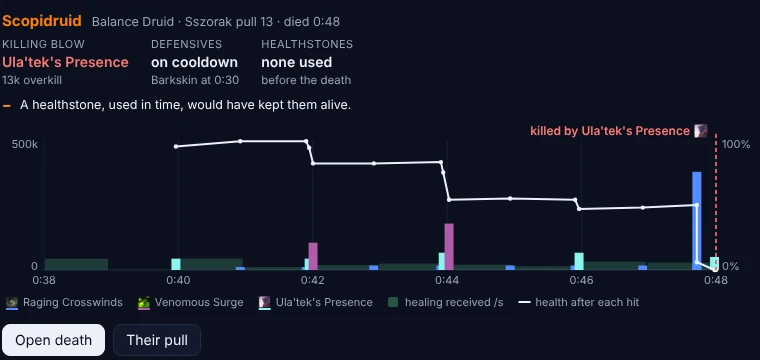
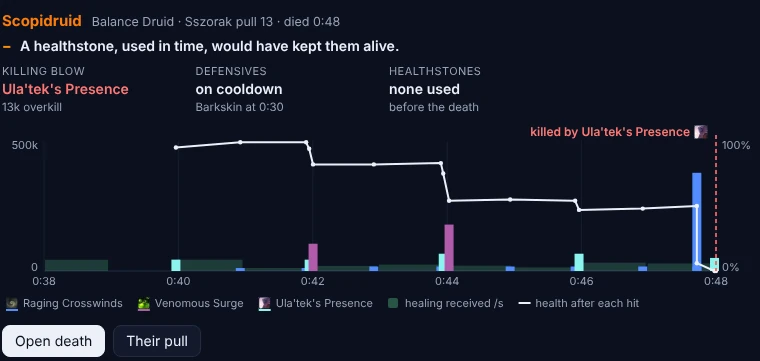
docs: the unreleased pictures show the cards as they are drawn now
Six pictures under Unreleased were taken before the cards led with a headline:
the night with its lists, the death with its line under the numbers, the player
with its scale on the card, the placeholder without the sentence's line. Taken
again from the same recorded pulls, with their descriptions put in step.

diff --git a/CHANGELOG.md b/CHANGELOG.md
@@ -21,7 +21,7 @@ The format is based on [Keep a Changelog](https://keepachangelog.com/en/1.1.0/).
 - `Discord` **Follow-up buttons only where they add something.** A follow-up you were already offered in the conversation isn't offered again, and an answer that read nothing (a greeting, a reply to a remark) has no buttons under it.
 - `Agent` **One set of colours in every chart, made to be told apart.** How a night's pulls ended, the abilities in a death and the kinds of callout in a note now share four colours that stay apart for red-green colour-blind readers, in the light theme and the dark; whatever is past four is "other", drawn hollow. Gold, the orange of "decided", red and green were tuned again to read as text on a card and to stay apart too, text that says a state takes the host's own colour for it where Claude or ChatGPT gives one, and a kick that went through or a cooldown not cast in a note's grid is a red square with a cross in it. A night's picture in Discord has its own legend.
 
-  ![Sszorak over 33 pulls in the light theme: each bar in one of four colours for what ended the pull, the endings past four drawn hollow, and the same colours in the list of how the pulls ended](https://raw.githubusercontent.com/Enf0/wipebot/main/docs/images/chart-colours-light.webp)
+  ![Sszorak over 33 pulls in the light theme: each bar in one of four colours for what ended the pull, the endings past four drawn hollow, and the same colours in the key under the bars](https://raw.githubusercontent.com/Enf0/wipebot/main/docs/images/chart-colours-light.webp)
 - `Agent` **Every card leads with its verdict.** A card used to open on a row of numbers and leave the reading to you. It now opens with one sentence: how the pull ended ("The boss gained Unbound Ferocity at 2:32 and kept it to the end, with 16 of 20 alive."), what would have kept someone alive, the weightiest thing for a player to fix, what ended the most pulls of a night. Wipebot's code writes the sentence from the same facts as the answer, so the two can't disagree. Under it every card is the same: at most four numbers, one chart and two buttons, in Claude and ChatGPT and, without the buttons, in Discord's pictures. While it loads, a card waits in that one shape.
 
   ![Sszorak pull 13's card: under the title one sentence, "The boss gained Unbound Ferocity at 2:32 and kept it to the end, with 16 of 20 alive.", then the boss's health left, the deaths before 2:32 and the first death, the pull's chart, and the buttons Open pull and Replay](https://raw.githubusercontent.com/Enf0/wipebot/main/docs/images/card-verdict-pull.webp)
@@ -54,10 +54,10 @@ The format is based on [Keep a Changelog](https://keepachangelog.com/en/1.1.0/).
 - `Agent` **A hit that kills many counts whole.** When one ability killed players over a second or two, the count stopped at the moment half the raid was dead: "Viscous Cyst killed 5" on a pull where it killed 10, with the other five listed as fallout. The wipe is now decided at the hit's last death, in every tool, two abilities killing at the same moment are both named, and a few deaths in pulses just before another ability's hit count as what led into it.
 - `Agent` **Class colours read on a light card.** A player's name, their line and their dot were drawn in the game's class colours, which were made for a dark screen: on a light card a priest's white, a rogue's yellow and a monk's green all but vanished, and a death knight's red was dim on a dark one. A name now keeps its class's colour at a lightness that reads on the card, in every view, and a bar keeps the true colour with an edge around it. Chart labels are also drawn at the sizes they were meant to have, not all at one. And what was faded to say it counts less is no longer faded past reading: in a pull's list of deaths, those after the wipe was decided are grey and plain, and a pull's chip on a player's night and the number written in a death's mark are in full ink.
 
-  ![A rogue's pull in the light theme: the name Draiman and the dot on the scale in a dark olive instead of the class's pale yellow](https://raw.githubusercontent.com/Enf0/wipebot/main/docs/images/class-colours-light.webp)
+  ![A rogue's pull opened in the light theme: the name Draiman and the dot on the scale in a dark olive instead of the class's pale yellow](https://raw.githubusercontent.com/Enf0/wipebot/main/docs/images/class-colours-light.webp)
 - `Agent` **The words on the cards are put right.** A parse reads "81st percentile", not "81th". A death the log names no killing blow for is labelled "no killing blow recorded", not "killed by no killing blow recorded", and on a player's night it reads "died 0:27 (#6), no killing blow recorded", no longer "died 0:27 (#6) to no killing blow recorded". A boss killed on the first pull has "1 pull", and no heading or key for what isn't there. "Could have lived" says "Astral Shift on 1 death", and the rank under "per second alive" says it is by total. On a death, what would have kept the player alive is marked as something to do differently, as it is on their night, and no longer with the plus of what went well.
 
-  ![Scopidruid's death on Sszorak pull 13: under the numbers, a minus and "A healthstone, used in time, would have kept them alive", then the hits and their health in the 10 s before the death](https://raw.githubusercontent.com/Enf0/wipebot/main/docs/images/death-missed-save.webp)
+  ![Scopidruid's death on Sszorak pull 13: the card leads with a minus and "A healthstone, used in time, would have kept them alive.", then its numbers and the hits and their health in the 10 s before the death](https://raw.githubusercontent.com/Enf0/wipebot/main/docs/images/death-missed-save.webp)
 - `Agent` **The pull's chart names both of its scales, and its labels keep apart.** The boss's health now runs from 100% to 0 on every pull, so the lines of two pulls compare, with the scale on the right written in the line's gold. On a phone the moment the wipe was decided and a damage peak's height no longer print across each other or across the health line: each takes the free place nearest to it, and why the wipe was decided stays in "Ended by" over the chart. The card also has the cooldowns its tool said it had: one row over the chart, a dot for a raid cooldown and a plus for a healer's. The damage scale's top figure is no longer cut at the card's edge ("5.0M/s" read ".0M/s"), and under a long night's bars the last two pull numbers no longer print on each other.
 
   ![Vashnik pull 16 at a phone's width: a row of dots and pluses for the cooldowns over the chart, "decided 6:28" above the health line beside its dashed line, 2.5M/s whole on the left, and 100% and 9.43% in gold on the right](https://raw.githubusercontent.com/Enf0/wipebot/main/docs/images/pull-chart-phone.webp)
@@ -66,7 +66,7 @@ The format is based on [Keep a Changelog](https://keepachangelog.com/en/1.1.0/).
   ![Sszorak's night at a phone's width with pull 13's bar tapped: its tooltip with how far the pull got, what ended it and the first death, ending "Tap again for this pull"](https://raw.githubusercontent.com/Enf0/wipebot/main/docs/images/night-tap-phone.webp)
 - `MCP` **A card that is loading has the shape of the card that is coming.** Every card waited as a tall box with a spinner, the replay's shape, then jumped by a couple of hundred pixels in the middle of the answer when its data arrived. A pull, a death, a player, a night and the replay now each wait in their own shape, already while the tool is still running. A card that can't be read says why in one line, with "Try again" where reading it again can help, instead of leaving the empty box and its grey buttons.
 
-  ![A pull's card while it loads: grey blocks where its title, its four numbers, its chart and its two buttons will be, and "Loading…" in the middle](https://raw.githubusercontent.com/Enf0/wipebot/main/docs/images/loading-placeholder.webp)
+  ![A pull's card while it loads: grey blocks where its title, its sentence, its four numbers, its chart and its two buttons will be, and "Loading…" in the middle](https://raw.githubusercontent.com/Enf0/wipebot/main/docs/images/loading-placeholder.webp)
 - `MCP` **The replay opens in fullscreen from its own button, and its controls stay in sight there.** A replay shown for a map had no way to fullscreen, and in fullscreen play and the timeline sat under the bottom of the window. The room now takes the height the window has left above them, and every view keeps clear of what Claude or ChatGPT say their own controls cover.
 
   ![The replay of Sszorak pull 13 in fullscreen: the room with everyone's position, and under it, in the same window, play, the timeline with its deaths and the speed](https://raw.githubusercontent.com/Enf0/wipebot/main/docs/images/replay-fullscreen-fit.webp)
